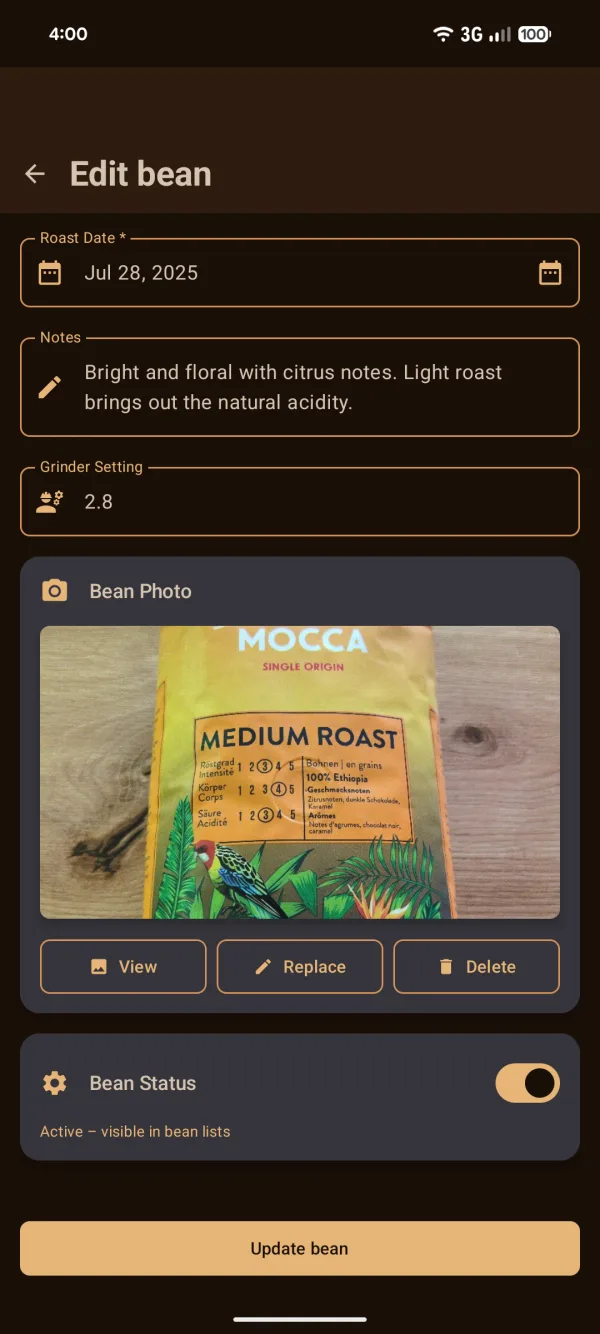
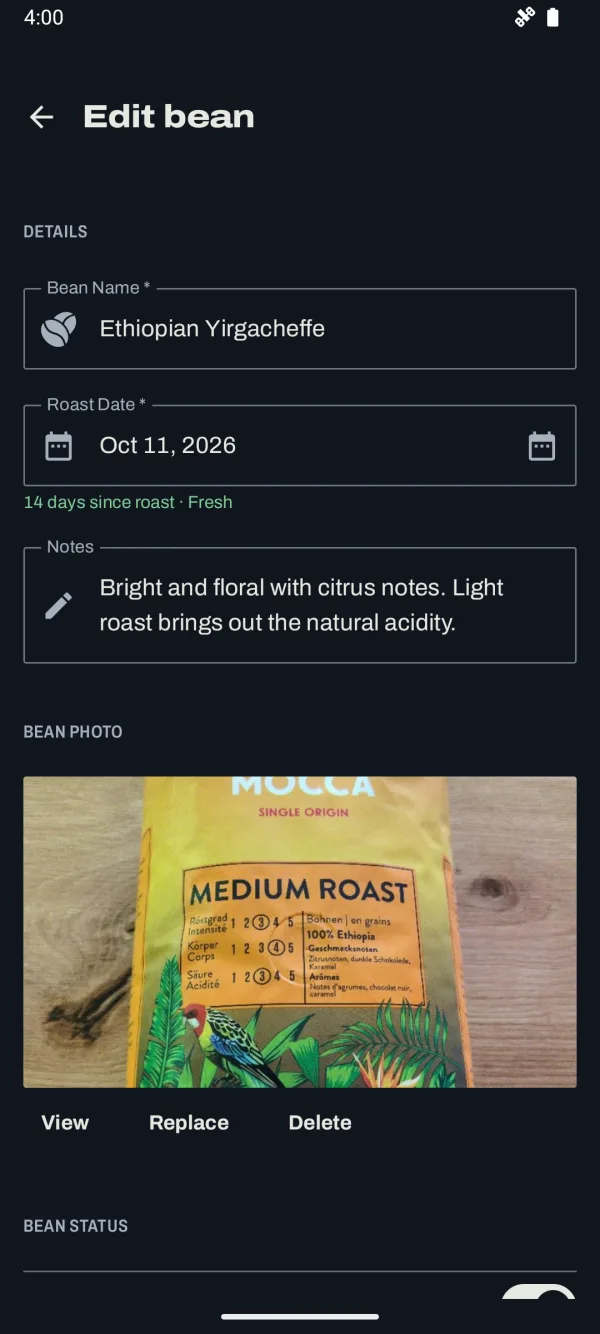
docs: new screenshots and store texts for the ledger redesign
Recapture all phone screenshots in en-US and de-DE, regenerate the site
images, update alt text and captions, and rewrite the Play store
descriptions and README features around the current app.

diff --git a/docs/index.html b/docs/index.html
@@ -238,12 +238,12 @@
                 </div>
                 <div class="phones">
                     <figure class="shot-fig">
-                        <img src="assets/shots/main_screen.webp" width="600" height="1333" loading="lazy" alt="Timer screen with the bean Ethiopian Yirgacheffe selected, 33 days since roast, grinder setting 48.9, a green ring at 29 seconds and 17 g to 34 g.">
-                        <figcaption><b>Timer.</b> Bean, roast age and grind sit above the ring.</figcaption>
+                        <img src="assets/shots/main_screen.webp" width="600" height="1333" loading="lazy" alt="Timer screen for Ethiopian Yirgacheffe, 14 days since roast: grinder setting 2.6 and 18 g in above a dial at 27 seconds, entering the green 25 to 30 second band; 38 g out, ratio 1:2.1.">
+                        <figcaption><b>Timer.</b> Bean, roast age, grind and dose above the dial.</figcaption>
                     </figure>
                     <figure class="shot-fig">
-                        <img src="assets/shots/bean_photo.webp" width="600" height="1333" loading="lazy" alt="Edit bean screen with roast date, tasting notes, grinder setting 2.8 and a photo of the coffee bag.">
-                        <figcaption><b>Bean.</b> Roast date, notes, grind and a photo of the bag.</figcaption>
+                        <img src="assets/shots/bean_photo.webp" width="600" height="1333" loading="lazy" alt="Edit bean screen for Ethiopian Yirgacheffe: roast date 11 October, 14 days since roast and fresh, tasting notes, and a photo of the coffee bag.">
+                        <figcaption><b>Bean.</b> Roast date, freshness, notes and a photo of the bag.</figcaption>
                     </figure>
                 </div>
             </div>
@@ -257,20 +257,20 @@
                 </div>
                 <div class="strip">
                     <figure class="shot-fig">
-                        <img src="assets/shots/shot_details.webp" width="600" height="1333" loading="lazy" alt="Shot details: ratio 1:2.2, 18 g to 40 g in 29 seconds, taste Perfect, score 100 out of 100 with a breakdown and the line: Perfect taste. Time was in the sweet spot.">
-                        <figcaption><b>Shot details.</b> Score breakdown and what happened.</figcaption>
+                        <img src="assets/shots/shot_details.webp" width="600" height="1333" loading="lazy" alt="Shot details for Brazilian Santos: 28 seconds, ratio 1:1.9, score 85; a dial-in path chart of the bean's shots converging on the target box, the verdict Keep current setting, and a score breakdown.">
+                        <figcaption><b>Shot details.</b> The dial-in path, the next step and the score.</figcaption>
                     </figure>
                     <figure class="shot-fig">
-                        <img src="assets/shots/shot_analysis.webp" width="600" height="1333" loading="lazy" alt="Analysis screen with an overall quality gauge at 72 and a recent trends line chart.">
-                        <figcaption><b>Analysis.</b> Overall quality and the trend across recent shots.</figcaption>
+                        <img src="assets/shots/shot_analysis.webp" width="600" height="1333" loading="lazy" alt="Analysis for Brazilian Santos: coaching notes, recent shots plotted on the time-by-ratio chart around the 25 to 30 second target, average score 71, and the quality trend.">
+                        <figcaption><b>Analysis.</b> Recent shots on the chart, coaching and the trend.</figcaption>
                     </figure>
                     <figure class="shot-fig">
-                        <img src="assets/shots/shot_history.webp" width="600" height="1333" loading="lazy" alt="Shot history for Colombian Supremo: a summary saying 3 of the last 5 shots were perfect, then shots with ratio, time, grinder setting, taste and a Dialed in badge.">
-                        <figcaption><b>History.</b> Every shot with ratio, time, grind and taste.</figcaption>
+                        <img src="assets/shots/shot_history.webp" width="600" height="1333" loading="lazy" alt="Shot history for Brazilian Santos: one ruled line per shot with date, dose, yield and grind, time coloured by zone, ratio and score, plus streak and Dialed in notes.">
+                        <figcaption><b>History.</b> One line per shot: time, ratio, grind and score.</figcaption>
                     </figure>
                     <figure class="shot-fig">
-                        <img src="assets/shots/filter_shots.webp" width="600" height="1333" loading="lazy" alt="Filter shots sheet with grinder setting, brew ratio range, extraction time range and an option for optimal extraction time only, 25 to 30 seconds.">
-                        <figcaption><b>Filters.</b> Narrow history by grind, ratio or time.</figcaption>
+                        <img src="assets/shots/filter_shots.webp" width="600" height="1333" loading="lazy" alt="Filter shots dialog with a list of beans and their roast age, Brazilian Santos selected, and a date range below.">
+                        <figcaption><b>Filters.</b> Narrow history to one bean or a date range.</figcaption>
                     </figure>
                 </div>
             </div>

diff --git a/docs/de-DE/store-entry.md b/docs/de-DE/store-entry.md
@@ -3,47 +3,43 @@
 Coffee Shot Timer
 
 ## Kurzbeschreibung
-Espresso-Timer mit Analyse für Heim-Baristas
+Espresso-Timer und Shot-Log, der dir sagt, wie du den Mahlgrad anpasst
 
 ## Vollständige Beschreibung
 
-Die Präzisions-App für perfekte Espresso-Extraktion
+Stell deinen Espresso Shot für Shot ein, jeder Shot sichtbar am 25–30-Sekunden-Ziel.
 
-Coffee Shot Timer wurde speziell für Espressomaschinen-Enthusiasten entwickelt, die ihre Brühfähigkeiten systematisch auf das nächste Level bringen möchten. Die App kombiniert intelligente Zeitmessung mit detaillierter Datenerfassung, um Ihnen zu helfen, konsistente, perfekt abgestimmte Espresso-Extraktionen zu erreichen.
+Coffee Shot Timer ist ein Shot-Log für Heim-Baristas. Du stoppst den Shot, bewertest den Geschmack, und die App sagt dir, in welche Richtung du die Mühle für den nächsten Shot drehst. Jeder Shot gehört zu seiner Bohne: Öffnest du die Packung wieder, warten der letzte Mahlgrad und der Vorschlag schon auf dich.
 
-Was Sie erwarten können:
+Timer
+- Ein Zifferblatt mit dem 25–30-s-Zielbereich, immer sichtbar, damit du siehst, wie der Shot darin landet
+- Manueller Modus, wenn du die Zeit selbst gemessen hast
+- Mahlgrad, Pulver rein und Kaffee raus auf einem Bildschirm, das Verhältnis wird mitgerechnet
 
-Präzisions-Timer mit visueller Rückmeldung: Großes, berührungsfreundliches Timer-Display mit farbkodierter Visualisierung. Optimale Extraktionszeiten werden durch Farbwechsel signalisiert - Sie wissen sofort, wann Ihr Shot perfekt läuft.
+Nach dem Shot
+- Bewerte ihn als sauer, perfekt oder bitter, optional schwach oder stark
+- Ein Mahlgrad-Vorschlag in Schritten deiner eigenen Mühle („3 Schritte feiner → 3.5"), pro Bohne gespeichert
+- Punkte von 0 bis 100, aufgeschlüsselt nach Geschmack, Zeit, Verhältnis, Konstanz und Präzision
 
-Brühverhältnis-Verfolgung: Verfolgen Sie Kaffee-Input und Espresso-Output über intuitive Schieberegler, die Single-Shot-Siebträger unterstützen (ab 5g). Die App berechnet automatisch Ihr Brühverhältnis und zeigt Ihnen, wann Sie den Sweet Spot treffen.
+Verlauf und Analyse
+- Eine Zeile pro Shot: Zeit nach Zone eingefärbt, Verhältnis, Mahlgrad und Punkte
+- Filter auf eine Bohne oder einen Zeitraum
+- Die letzten Shots im Zeit-Verhältnis-Diagramm, mit dem Einstellweg jeder Bohne
+- Coaching-Hinweise und der Qualitätsverlauf deiner letzten Shots
 
-Intelligente Bohnenverwaltung: Verwalten Sie Ihre Kaffeebohnen mit Röstdaten und automatischen Frische-Indikatoren. Fügen Sie Fotos der Bohnenverpackung hinzu für einfacheres Nachkaufen. Die App lässt Sie wissen, wann Bohnen noch zu frisch oder bereits über ihre beste Zeit hinaus sind.
+Bohnen
+- Röstalter als farbige Zahl: ruhend, frisch (4–21 Tage) oder über dem Höhepunkt
+- Einstellstatus pro Bohne: neu, Experimentieren, Verbesserungsbedarf oder eingestellt
+- Ein Foto der Packung, damit du sie beim Nachkaufen wiedererkennst
 
-Umfassende Shot-Protokollierung: Erfassen Sie Mühleneinstellungen, Extraktionszeiten und Verkostungsnotizen. Jeder Shot wird mit allen relevanten Parametern gespeichert - so vergessen Sie nie wieder eine erfolgreiche Einstellung.
+Deine Ausrüstung
+- Skalenbereich und Schrittweite deiner Mühle, damit die Vorschläge zu den Zahlen auf deiner Skala passen
+- Einfaches oder doppeltes Sieb, mit passenden Bereichen für Pulver und Ausbeute
 
-Analyse und Optimierung: Visualisieren Sie Ihre Brühmuster über die Zeit und erkennen Sie Trends. Die Verlaufsfunktion hilft Ihnen, erfolgreiche Einstellungen mit konsistenter Shot-Analyse zu reproduzieren und weiterzuentwickeln.
+Privat und offline
+Die App hat keine Internetberechtigung. Shots, Bohnen und Fotos bleiben auf deinem Handy.
 
-Ausrüstungs-Setup: Konfigurieren Sie Ihren Mühlen-Skalenbereich, um die App an Ihre spezifische Ausrüstung anzupassen und relevante Anleitungen für Ihr Setup zu erhalten.
-
-Anfängerfreundliches Onboarding: App-Einführung und geführte Einrichtung für eine reibungslose erste Nutzung, die es Neulingen leicht macht, zu beginnen.
-
-Für den täglichen Gebrauch konzipiert:
-- Funktioniert 100% offline - perfekt auch ohne WLAN
-- Automatisches Entwurf-Speichern verhindert Datenverlust
-- Schnelle Eingabe während des aktiven Brühens
-- Große Bedienelemente für entspannte, stressfreie Bedienung
-- Optimierte Navigation und schnelle Benutzeroberfläche
-
-Perfekt geeignet, wenn Sie:
-- Eine Espressomaschine oder manuelle Espresso-Zubereitung besitzen
-- Reproduzierbare Ergebnisse wollen
-- Gerne systematisch mit datengestützter Verbesserung lernen
-- Ihre Technik verfeinern möchten
-- Ernsthaft an hochwertigen Heim-Kaffee interessiert sind
-
-Die App unterstützt Sie dabei, konsistente Espresso-Qualität zu erreichen und Ihre persönlichen Geschmackspräferenzen zu entwickeln. Durch den strukturierten Ansatz verbessern Sie schrittweise Ihre Brühfähigkeiten.
-
-Coffee Shot Timer verwandelt Espresso-Zubereitung von Rätselraten in präzises Handwerk - ganz ohne Stress.
+Heller und dunkler Modus, auf Deutsch und Englisch.
 
 ## App icon
 ![](../icon.png)

diff --git a/docs/en-US/store-entry.md b/docs/en-US/store-entry.md
@@ -3,47 +3,43 @@
 Coffee Shot Timer
 
 ## Short description
-Espresso timer with analytics for home baristas
+Espresso timer and shot log that tells you how to adjust your grind
 
 ## Full description
 
-The precision app for perfect espresso extraction
+Dial in espresso shot by shot, with every shot plotted against the 25–30 second target.
 
-Coffee Shot Timer was built specifically for espresso machine enthusiasts who want to systematically take their brewing skills to the next level. The app combines intelligent timing with detailed data capture to help you achieve consistent, dialed-in espresso extractions.
+Coffee Shot Timer is a shot log for home baristas. You time the shot, rate the taste, and the app tells you which way to turn the grinder for the next one. Each shot is kept with its bean, so the next time you open that bag, the last grind setting and the suggestion are waiting for you.
 
-What you can expect:
+Timer
+- A dial with the 25–30 s target band always visible, so you can see the shot land in it
+- Manual mode for entering a time you measured yourself
+- Grinder setting, dose and yield on one screen, with the brew ratio calculated as you go
 
-Precision timer with visual feedback: Large, touch-friendly timer display with color-coded visualization. Optimal extraction times are signaled through color changes - you'll instantly know when your shot is running perfectly.
+After the shot
+- Rate it sour, perfect or bitter, optionally weak or strong
+- Get a grind suggestion in steps of your own grinder ("3 steps finer → 3.5"), saved per bean
+- A score out of 100 with a breakdown of taste, time, ratio, consistency and precision
 
-Brew ratio tracking: Track coffee input and espresso output through intuitive sliders that support single-shot baskets (down to 5g). The app automatically calculates your brew ratio and shows you when you're hitting the sweet spot.
+History and analysis
+- One ruled line per shot: time coloured by zone, ratio, grind and score
+- Filter to one bean or a date range
+- Recent shots plotted on a time-by-ratio chart, with the dial-in path for each bean
+- Coaching notes and a quality trend across your recent shots
 
-Smart bean management: Manage your coffee beans with roast dates and automatic freshness indicators. Attach photos of bean packages for easier re-purchasing. The app lets you know when beans are still too fresh or past their prime.
+Beans
+- Roast age shown as a colour-coded figure: resting, fresh (4–21 days) or past its peak
+- Dial-in status per bean: new, experimenting, needs work or dialed in
+- A photo of the bag, so you recognise it when you buy it again
 
-Comprehensive shot logging: Record grinder settings, extraction times, and tasting notes. Every shot is saved with all relevant parameters - so you'll never forget a successful setup again.
+Your equipment
+- Set your grinder's scale range and step size, so suggestions match the numbers on your dial
+- Single or double basket, with matching dose and yield ranges
 
-Analysis and optimization: Visualize your brewing patterns over time and spot trends. The history feature helps you reproduce and develop successful settings with consistent shot analysis.
+Private and offline
+The app has no internet permission. Your shots, beans and photos stay on your phone.
 
-Equipment setup: Configure your grinder scale range to tailor the app to your specific equipment and get relevant guidance for your setup.
-
-Beginner-friendly onboarding: App introduction and guided setup for a smooth first-run experience, making it easy for newcomers to get started.
-
-Designed for daily use:
-- Works 100% offline - perfect even without WiFi
-- Automatic draft saving prevents data loss
-- Quick input during active brewing
-- Large interface elements for relaxed, stress-free operation
-- Streamlined navigation and fast UI
-
-Perfect fit if you:
-- Own an espresso machine or manual espresso maker
-- Want reproducible results
-- Like to learn systematically with data-driven improvement
-- Want to refine your technique
-- Are serious about home coffee quality
-
-The app supports you in achieving consistent espresso quality and developing your personal taste preferences. Through the structured approach, you'll gradually improve your brewing skills.
-
-Coffee Shot Timer transforms espresso making from guesswork into precise craftsmanship - without any stress.
+Light and dark mode, in English and German.
 
 ## App icon
 ![](../icon.png)

diff --git a/README.md b/README.md
@@ -14,13 +14,13 @@ Coffee Shot Timer is a precision Android app designed specifically for espresso 
 
 ## Features
 
-- Precision timer with clear visual feedback
-- Brew ratio tracking with intuitive sliders; supports single-shot baskets (down to 5 g)
-- Shot logging and analysis: times, grinder settings, tasting notes, and trends over time
-- Bean management with roast dates, freshness indicators, and attachable package photos
-- Grinder setup tailored to your equipment; record and compare grinder settings
-- Simple onboarding and streamlined navigation; About screen and in-app feedback
-- Built for daily use: 100% offline, autosave drafts, and a fast, stress-free UI
+- Shot timer dial with the 25–30 s target always visible, plus a manual mode
+- Grinder setting, dose and yield on one screen, with the brew ratio calculated as you go
+- Taste feedback (sour, perfect, bitter) and a next-shot grind suggestion in steps of your grinder, saved per bean
+- History as a ledger, one line per shot, filterable by bean and date
+- Analysis on a time-by-ratio shot chart, with a score out of 100, coaching notes and the quality trend
+- Bean management with colour-coded roast age (fresh 4–21 days), dial-in status and package photos
+- Grinder range, step size and basket size configurable; works fully offline
 
 ## Screenshots
 
